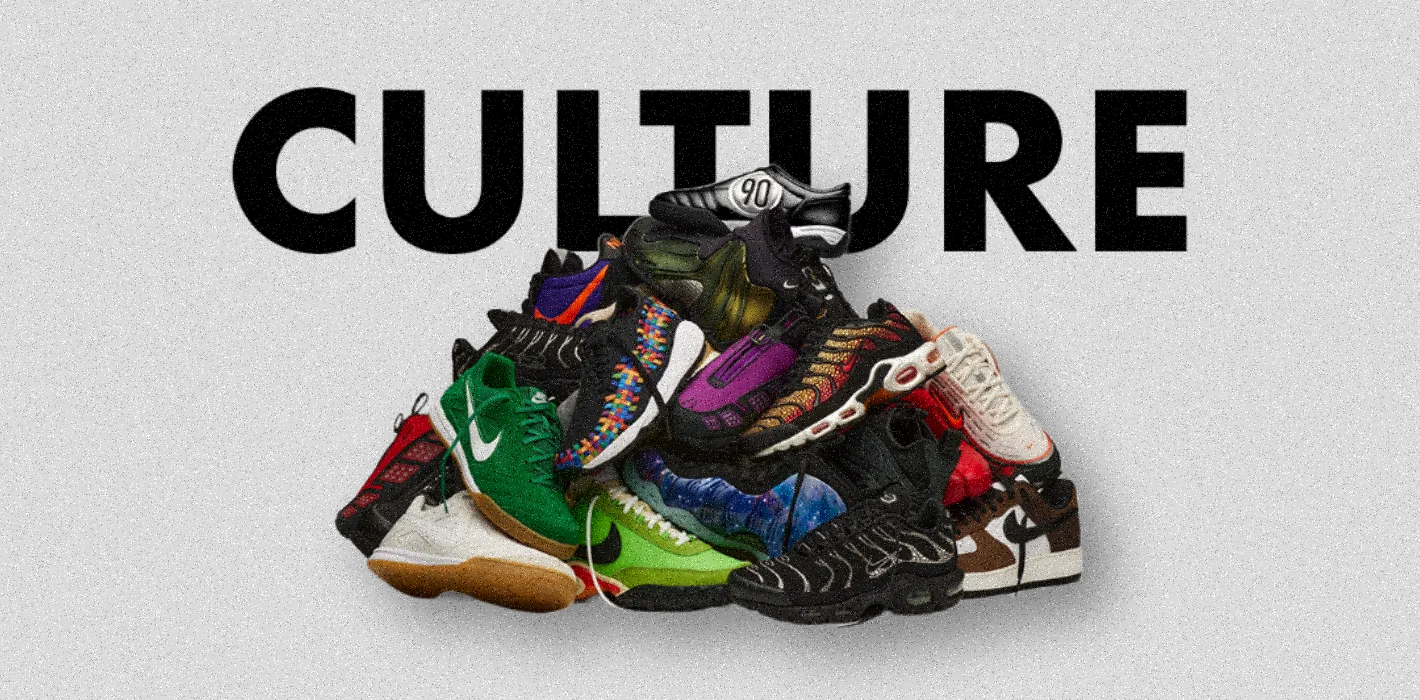
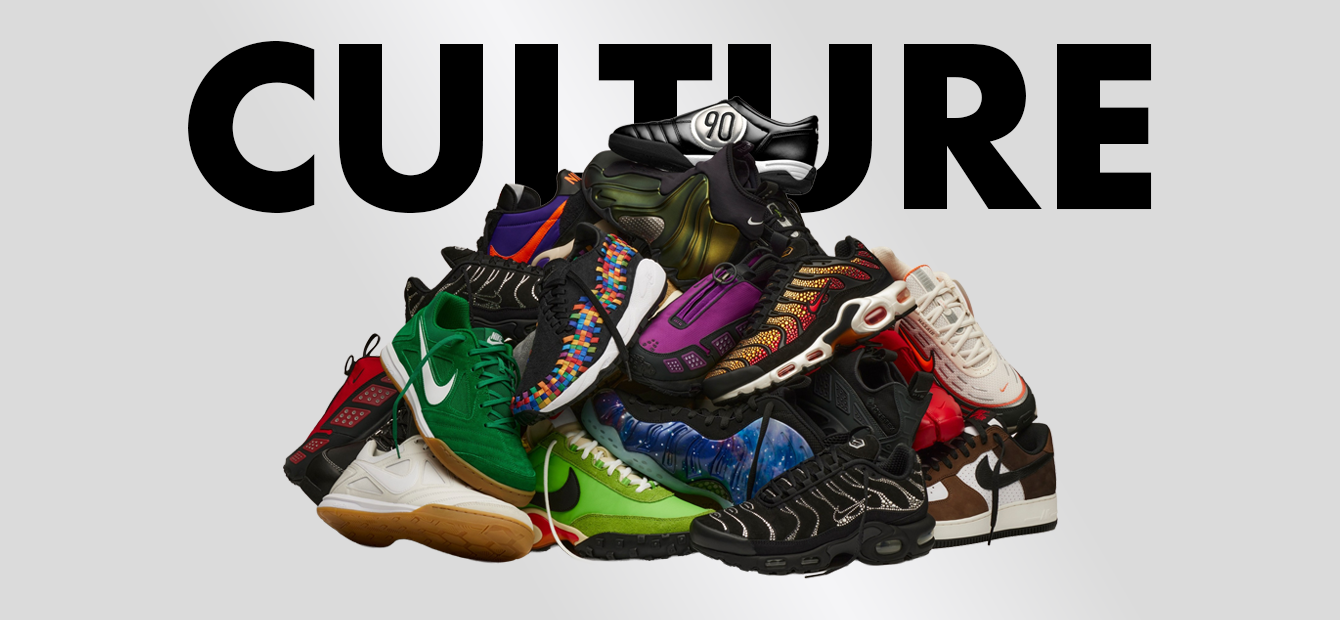
culture hero img responsive

diff --git a/culture.html b/culture.html
@@ -46,7 +46,11 @@
             </nav>
             <section>
                 <div class="hero">
-                    <img src="img/hero/culture-hero.png" alt="">
+                    <img src="img/hero/culture-hero.png" alt="" class="hero-max">
+                    <img src="img/hero/hero-1240/culture-hero-1240.png" alt="" class="hero-1240">
+                    <img src="img/hero/hero-1000/culture-hero-1000.png" alt="" class="hero-1000">
+                    <img src="img/hero/hero-680/culture-hero-680.png" alt="" class="hero-680">
+                    <img src="img/hero/hero-460/culture-hero-460.png" alt="" class="hero-460">
                 </div>
             </section>
         </header>
